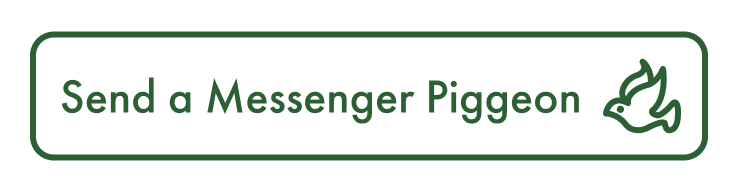
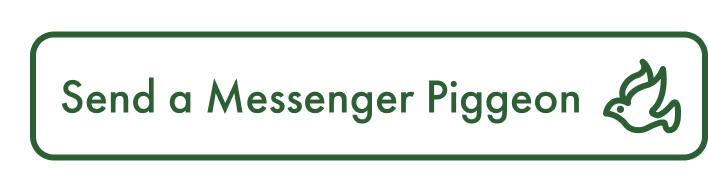
projects website iteration 1
todo: buttons functional, motion main image when scrolling down, lorem ipsum text

Changed region(s): [[0.0311, 0.1562, 1.0, 0.8438]]

diff --git a/storytellingGame.html b/storytellingGame.html
@@ -9,7 +9,7 @@
     <!-- Styles -->
     <link rel="stylesheet" href="src/css/main.css" />
     <link rel="stylesheet" href="src/css/layout.css" />
-    <link rel="stylesheet" href="src/css/components.css" />
+    <link rel="stylesheet" href="src/css/storytellingGame.css" />
 
     <!-- Scripts -->
     <script src="src/js/main.js" defer></script>
@@ -17,11 +17,12 @@
 
   <body>
     <!-- NAVBAR -->
-    <header class="navbar">
+    <nav class="navbar">
       <div class="navbar_container">
+        
         <a href="index.html" class="navbar_logo">Irina Comsa</a>
 
-        <nav class="navbar_nav">
+        <div class="navbar_nav">
           <a href="#about">About Me</a>
           <a href="#projects">Projects</a>
           <a
@@ -29,7 +30,6 @@
             target="_blank"
             >CV</a
           >
-
           <a
             href="https://mail.google.com/mail/?view=cm&fs=1&to=irinacomsa28@gmail.com"
             target="_blank"
@@ -40,9 +40,10 @@
             <img src="public/assets/images/pigeon-hovered.png" class="pigeon-hovered" alt="Contact via Email" />
             <span class="tooltip">Contact</span>
           </a>
-        </nav>
+        </div>
       </div>
-    </header>
+
+    </nav>
 
   <div class="main_wrapper"> <!-- MAIN WRAPPER contains everything except footer -->
     <!--  SOCIAL LINKS  -->
@@ -58,6 +59,92 @@
       </a>
     </aside>
 
+    <!--hero-->
+    <section id="hero" class="hero_section">
+      <div class="hero_projectcontainer">
+        <div class="projects_button">
+            <img src="public/assets/images/backButton.png" alt="Image of the game"/>
+          </div>
+          <div class="project_hero_image">
+            <img src="public/assets/images/project1_hero_image.png" alt="Image of the game"/>
+          </div>
+          
+          <div class="projects_button">
+            <img src="public/assets/images/nextButton.png" alt="Image of the game"/>
+          </div>
+      </div>
+    </section>
+
+    <!--about the project-->
+    <section class="section">
+      <div class="project_container">
+
+        <div class="project_content">
+          <h1>Serious Game for Social Impact <br> | bachelor thesis</h1>
+          <div class="project_description">
+            <div class="keypoints"> 
+              <div class="keypoint">
+                <p>What I Did</p>
+                
+                  <ul>
+                  <li>Conceptualized & designed a serious game to mitigate gender stereotypes in children</li>
+                  <li>Expert-led: designed based on research and a critical design session with researchers in Child-Computer Interaction </li>
+                  <li>Implemented the game in Unity (C#)</li>
+                  <li>User-centered design: conducted two user sessions and redesigned the game’s second half based on the results from the first session </li>
+                  <li>Validated game’s effectiveness via direct interaction and a reflection coding scheme</li>
+                  </ul>
+              </div>
+
+              <div class="keypoint">
+                <p>Keywords</p>
+                <ul>
+                  <li>Child-Computer Interaction </li>
+                  <li>Reflective Design </li>
+                  <li>Critical Design</li>
+                  <li>Serious Games</li>
+                </ul>
+              </div>
+              <div class="keypoint">
+                <p>People Involved</p>
+                <ul>
+                  <li>Prof. Dr. Albrecht Schmidt </li>
+                  <li>Prof. Dr. Monica Landoni </li>
+                  <li>PhD student Irene Zanardi</li>
+                  <li>four researchers in CCI</li>
+                  <li>eight primary-school children </li>
+                </ul>
+              </div>
+
+            </div>
+
+            <div class="descriptionAndphoto">
+              <p>Lorem Ipsum Lorem Ipsum Lorem Ipsum Lorem Ipsum Lorem Ipsum Lorem Ipsum Lorem Ipsum Lorem Ipsum Lorem Ipsum Lorem Ipsum Lorem Ipsum Lorem Ipsum
+                  Lorem Ipsum Lorem Ipsum Lorem Ipsum Lorem Ipsum Lorem Ipsum Lorem Ipsum
+                  Lorem Ipsum Lorem Ipsum Lorem Ipsum Lorem Ipsum Lorem Ipsum Lorem Ipsum
+                  Lorem Ipsum Lorem Ipsum Lorem Ipsum Lorem Ipsum Lorem Ipsum Lorem Ipsum
+                  Lorem Ipsum Lorem Ipsum Lorem Ipsum Lorem Ipsum Lorem Ipsum Lorem Ipsum
+                  Lorem Ipsum Lorem Ipsum Lorem Ipsum Lorem Ipsum Lorem Ipsum Lorem Ipsum Lorem Ipsum Lorem Ipsum Lorem Ipsum Lorem Ipsum Lorem Ipsum Lorem Ipsum
+                  Lorem Ipsum Lorem Ipsum Lorem Ipsum Lorem Ipsum Lorem Ipsum Lorem Ipsum
+                  Lorem Ipsum Lorem Ipsum Lorem Ipsum Lorem Ipsum Lorem Ipsum Lorem Ipsum
+                  Lorem Ipsum Lorem Ipsum Lorem Ipsum Lorem Ipsum Lorem Ipsum Lorem Ipsum
+                  Lorem Ipsum Lorem Ipsum Lorem Ipsum Lorem Ipsum Lorem Ipsum Lorem Ipsu
+              </p>
+              <img src="public/assets/images/project1_img1.png" alt="Project1 image 1"/>
+            </div>
+              
+            
+
+          </div> <!--end description-->
+        </div><!--end content-->
+
+        <div class="photos">
+              <img src="public/assets/images/project1_img2.png" alt="Project1 image 1"/>
+              <img src="public/assets/images/project1_img3.png" alt="Project1 image 1"/>
+        </div>
+      
+
+      </div><!--end container-->
+    </section>
     
   </div> <!-- END OF MAIN WRAPPER -->
 

diff --git a/src/css/storytellingGame.css b/src/css/storytellingGame.css
@@ -1,0 +1,125 @@
+.hero_projectcontainer {
+  display: flex;
+  flex-direction: row;
+  max-width: var(--max-width);
+  margin-inline: auto; /*align to the center*/
+  justify-content: space-between;
+  width: 100%;
+} 
+
+/*Hero*/
+.project_hero_image {
+  max-width: 900px;  
+  height: auto;
+  width: fit-content;
+  display: block;   
+}
+
+.project_hero_image img{
+  width: 100%;   
+  height: auto;      
+  display: block;
+}
+
+.projects_button {
+  height: 226px;
+  width: fit-content;
+}
+
+.projects_button img{
+  height: 100%;
+  width: auto;      
+  display: block;
+}
+
+/*About Project Section*/
+
+.project_container {
+  display: flex;
+  flex-direction: column;
+  margin-inline: auto; /*align to the center*/
+  max-width: var(--max-width);
+  width: 100%;
+  gap: var(--space-lg);
+
+}
+
+
+.project_content{
+    display: flex;
+    flex-direction: column;
+    gap: var(--space-lg);
+    top: 0px;
+    left: 0px;
+}
+
+.project_description{
+  display: flex;
+  flex-direction: row;
+  justify-content: space-between;
+}
+
+.keypoints{
+    display: flex;
+    flex-direction: column;
+    width: 400px;
+    height: auto;
+    gap: var(--space-md);
+}
+
+
+
+.keypoints ul{
+  list-style-position: inside;
+  padding-left: 0;
+  font-family: 'FuturaPT-Light';
+  font-size: 16px; 
+}
+
+.keypoints p{
+  font-family: 'FuturaPT-Medium';
+  font-size: 16px;
+}
+
+
+
+
+.keypoint{
+    display:flex;
+    flex-direction: column;
+    gap: 4px;
+}
+
+.descriptionAndphoto{
+    display: flex;
+    flex-direction: column;
+    width: 640px;
+    gap: var(--space-lg);
+}
+
+.descriptionAndphoto img{
+    width: 100%;
+    height: auto;
+}
+
+.photos{
+    display: flex;
+    flex-direction: row;
+    width: 100%;
+    justify-content: space-between;
+    gap: 20px;
+    
+}
+
+.photos img{
+    width: 100%;
+    max-width: 554px;
+    min-width: 0;
+    height: auto;
+    object-fit: cover;
+    flex: 1 1 calc(50% - 10px);/*to make them responsive*/
+}
+
+
+
+

diff --git a/src/css/layout.css b/src/css/layout.css
@@ -22,13 +22,18 @@
 }
 
 .navbar_container {
-  height: 64px;
-  max-width: var(--max-width);
-  margin-inline: auto; /*align to the center*/
   display: flex;
   flex-direction: row;
+  height: 64px;
+  width: 100%;
+  max-width: var(--max-width);
+  margin: auto;
   justify-content: space-between;
   align-items: center;
+}
+
+.navbar_container a:hover {
+  color: var(--hover-gray);
 }
 
 .navbar_logo {
@@ -41,14 +46,16 @@
 
 .navbar_nav {
   display: flex;
-  align-items: center;
+  flex-direction: row;
+  height: auto;
+  width: auto;
 }
 
 .navbar_nav a {
+  display: flex;
   font-family: 'FuturaPT-Medium';
   height: 64px;
   padding-inline: 36px;
-  display: flex;
   align-items: center;
   color: var(--hunter-green);
   text-decoration: none;
@@ -56,23 +63,23 @@
   
 }
 
-.navbar_container a:hover {
-  color: var(--hover-gray);
-}
-
 /*  PIGEON CTA  */
 .navbar_pigeon {
+  display: inline-block;
   position: relative;
   aspect-ratio: 16 / 9;
-  width: 226px;
+  width: 236px;
   height: auto;
+  padding-right: 0;
 }
 
 .navbar_pigeon img {
   position: absolute;
-  width: 246px;
-  height: auto;
-  object-fit: cover;
+  top: 0;
+  right: 0;             
+  width: 100%;         
+  height: 100%;        
+  object-fit: contain;
 }
 
 .pigeon-hovered{
@@ -144,7 +151,7 @@
 }
 
 
-.hero_image img, .skills img, .experience img, .education img, .languages img {
+.hero_image img, .skills img, .experience img, .education img, .languages img{
   width: 100%;       
   height: auto;      
   object-fit: cover; 

diff --git a/index.html b/index.html
@@ -9,19 +9,20 @@
     <!-- Styles -->
     <link rel="stylesheet" href="src/css/main.css" />
     <link rel="stylesheet" href="src/css/layout.css" />
-    <link rel="stylesheet" href="src/css/components.css" />
+    <link rel="stylesheet" href="src/css/storytellingGame.css" />
 
     <!-- Scripts -->
     <script src="src/js/main.js" defer></script>
   </head>
 
   <body>
-    <!-- NAVBAR -->
-    <header class="navbar">
+   <!-- NAVBAR -->
+    <nav class="navbar">
       <div class="navbar_container">
+        
         <a href="index.html" class="navbar_logo">Irina Comsa</a>
 
-        <nav class="navbar_nav">
+        <div class="navbar_nav">
           <a href="#about">About Me</a>
           <a href="#projects">Projects</a>
           <a
@@ -29,7 +30,6 @@
             target="_blank"
             >CV</a
           >
-
           <a
             href="https://mail.google.com/mail/?view=cm&fs=1&to=irinacomsa28@gmail.com"
             target="_blank"
@@ -40,9 +40,10 @@
             <img src="public/assets/images/pigeon-hovered.png" class="pigeon-hovered" alt="Contact via Email" />
             <span class="tooltip">Contact</span>
           </a>
-        </nav>
+        </div>
       </div>
-    </header>
+
+    </nav>
 
   <div class="main_wrapper"> <!-- MAIN WRAPPER contains everything except footer -->
     <!--  SOCIAL LINKS  -->
